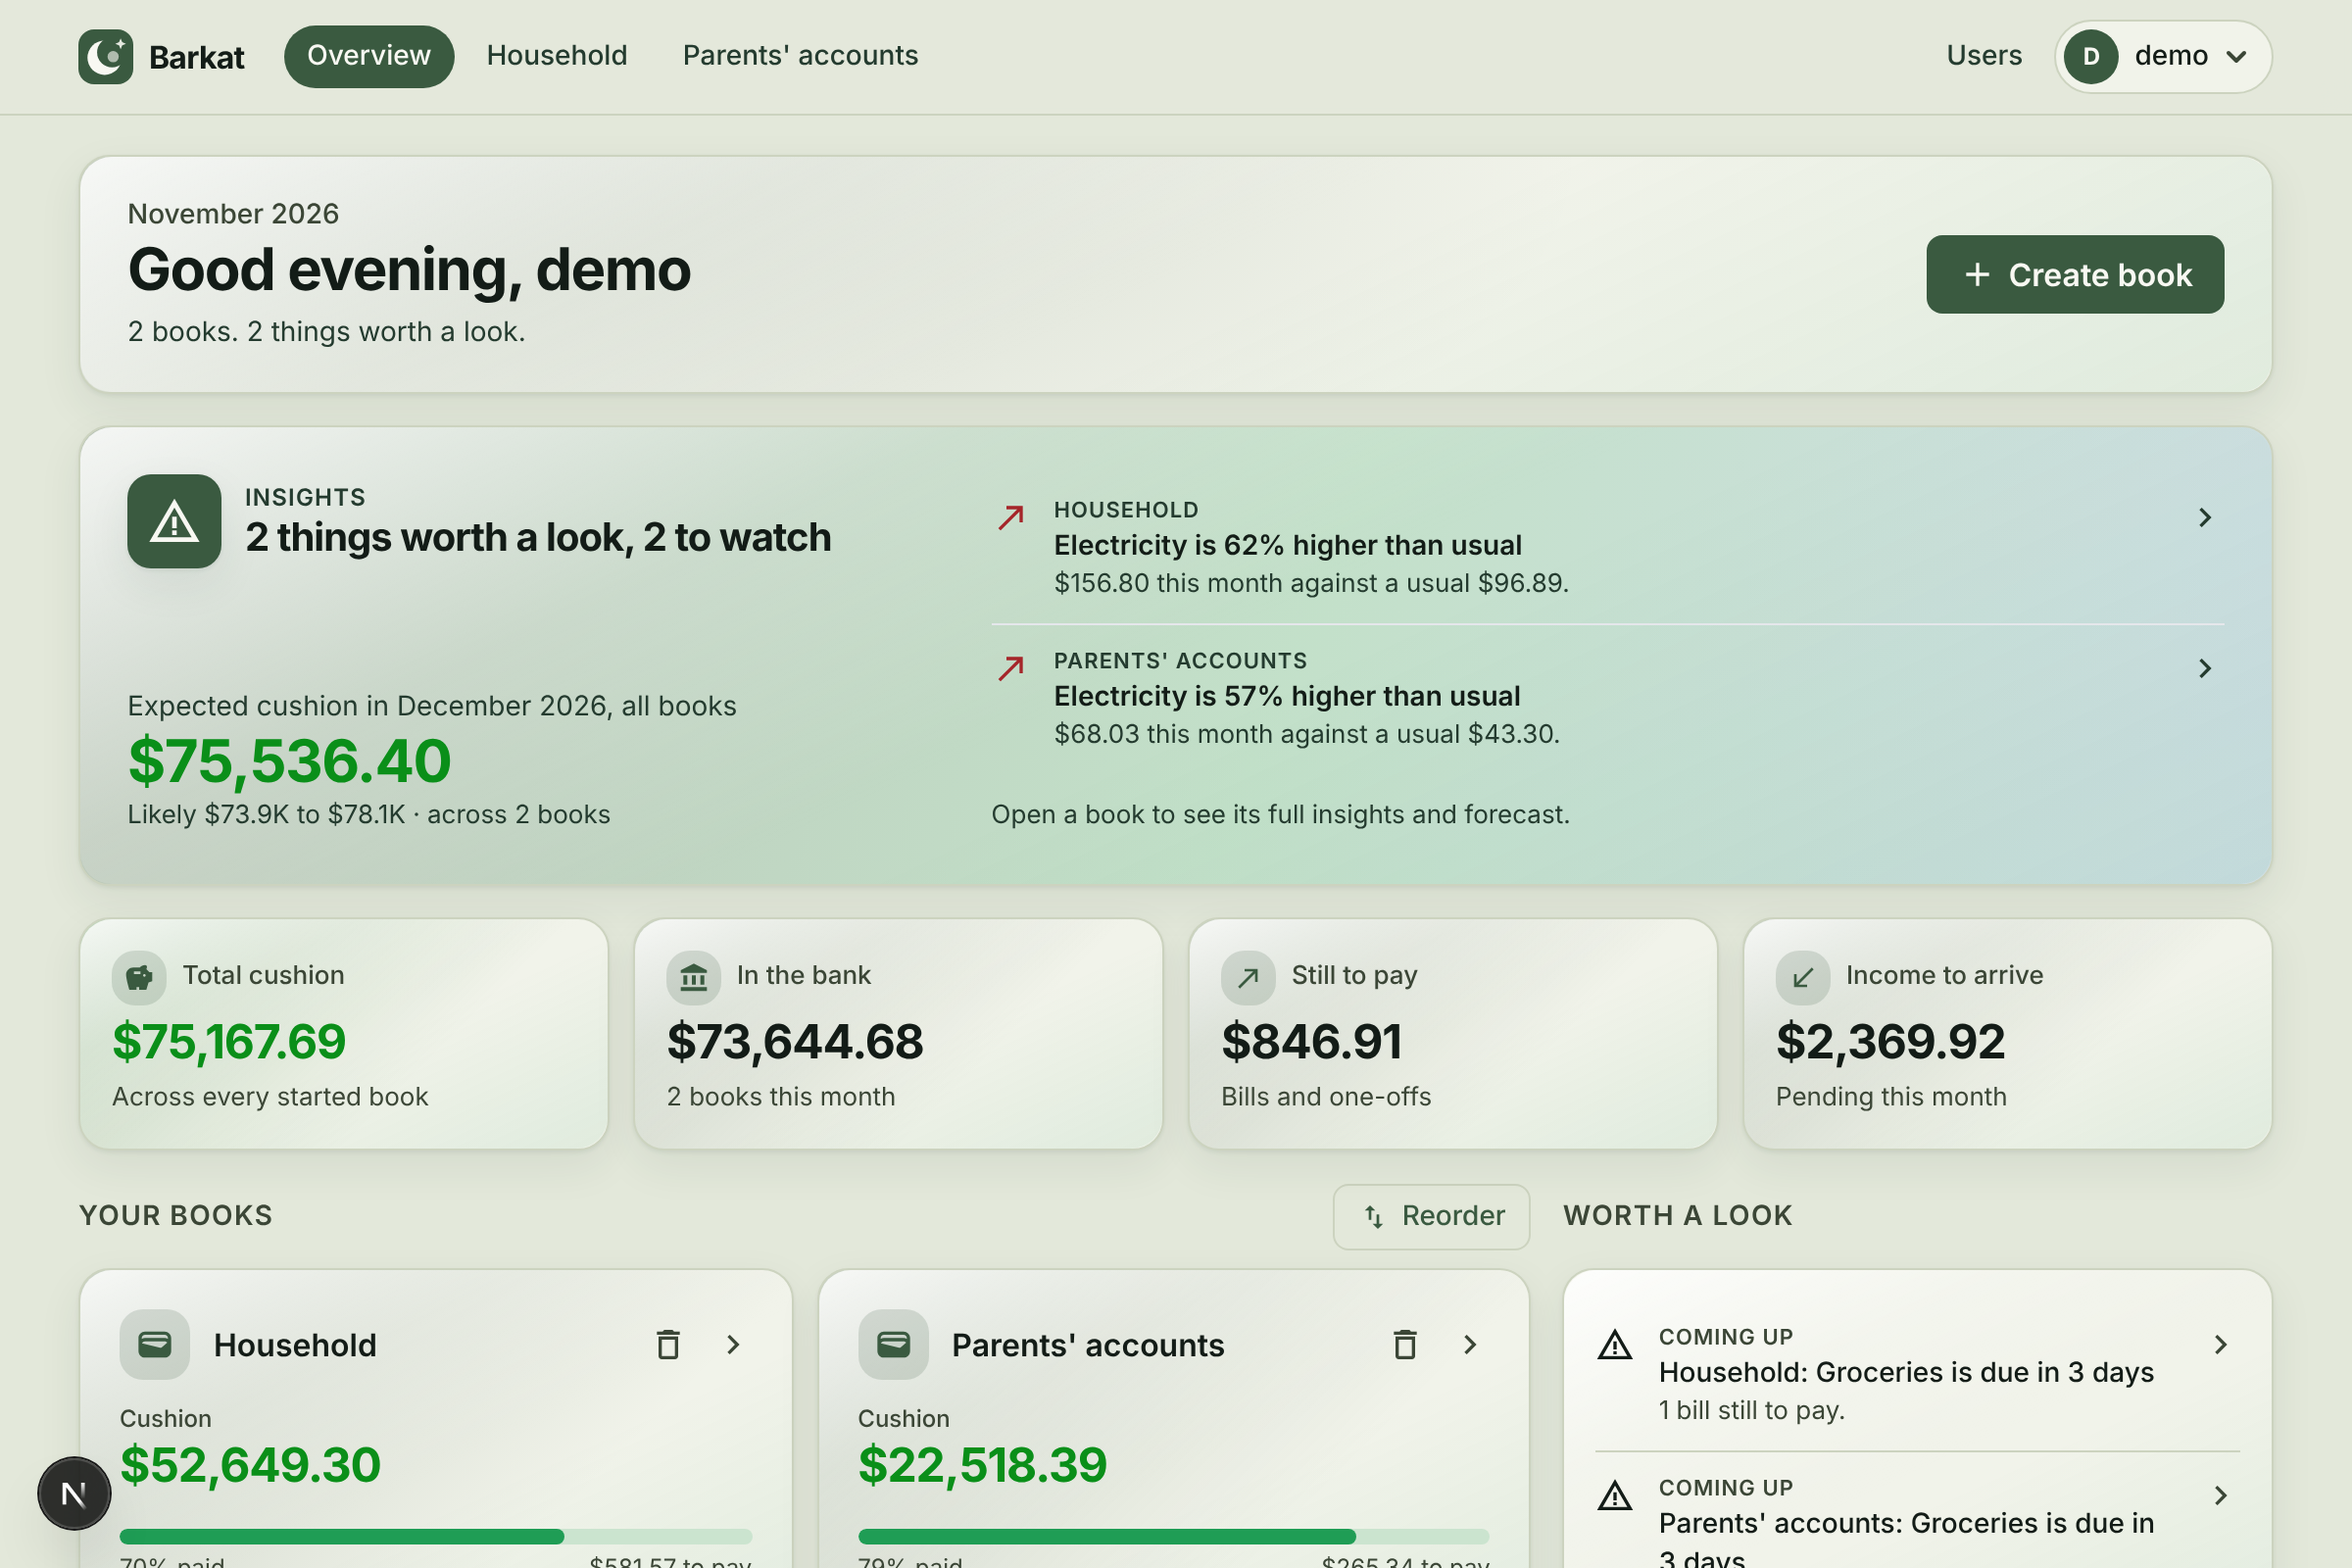
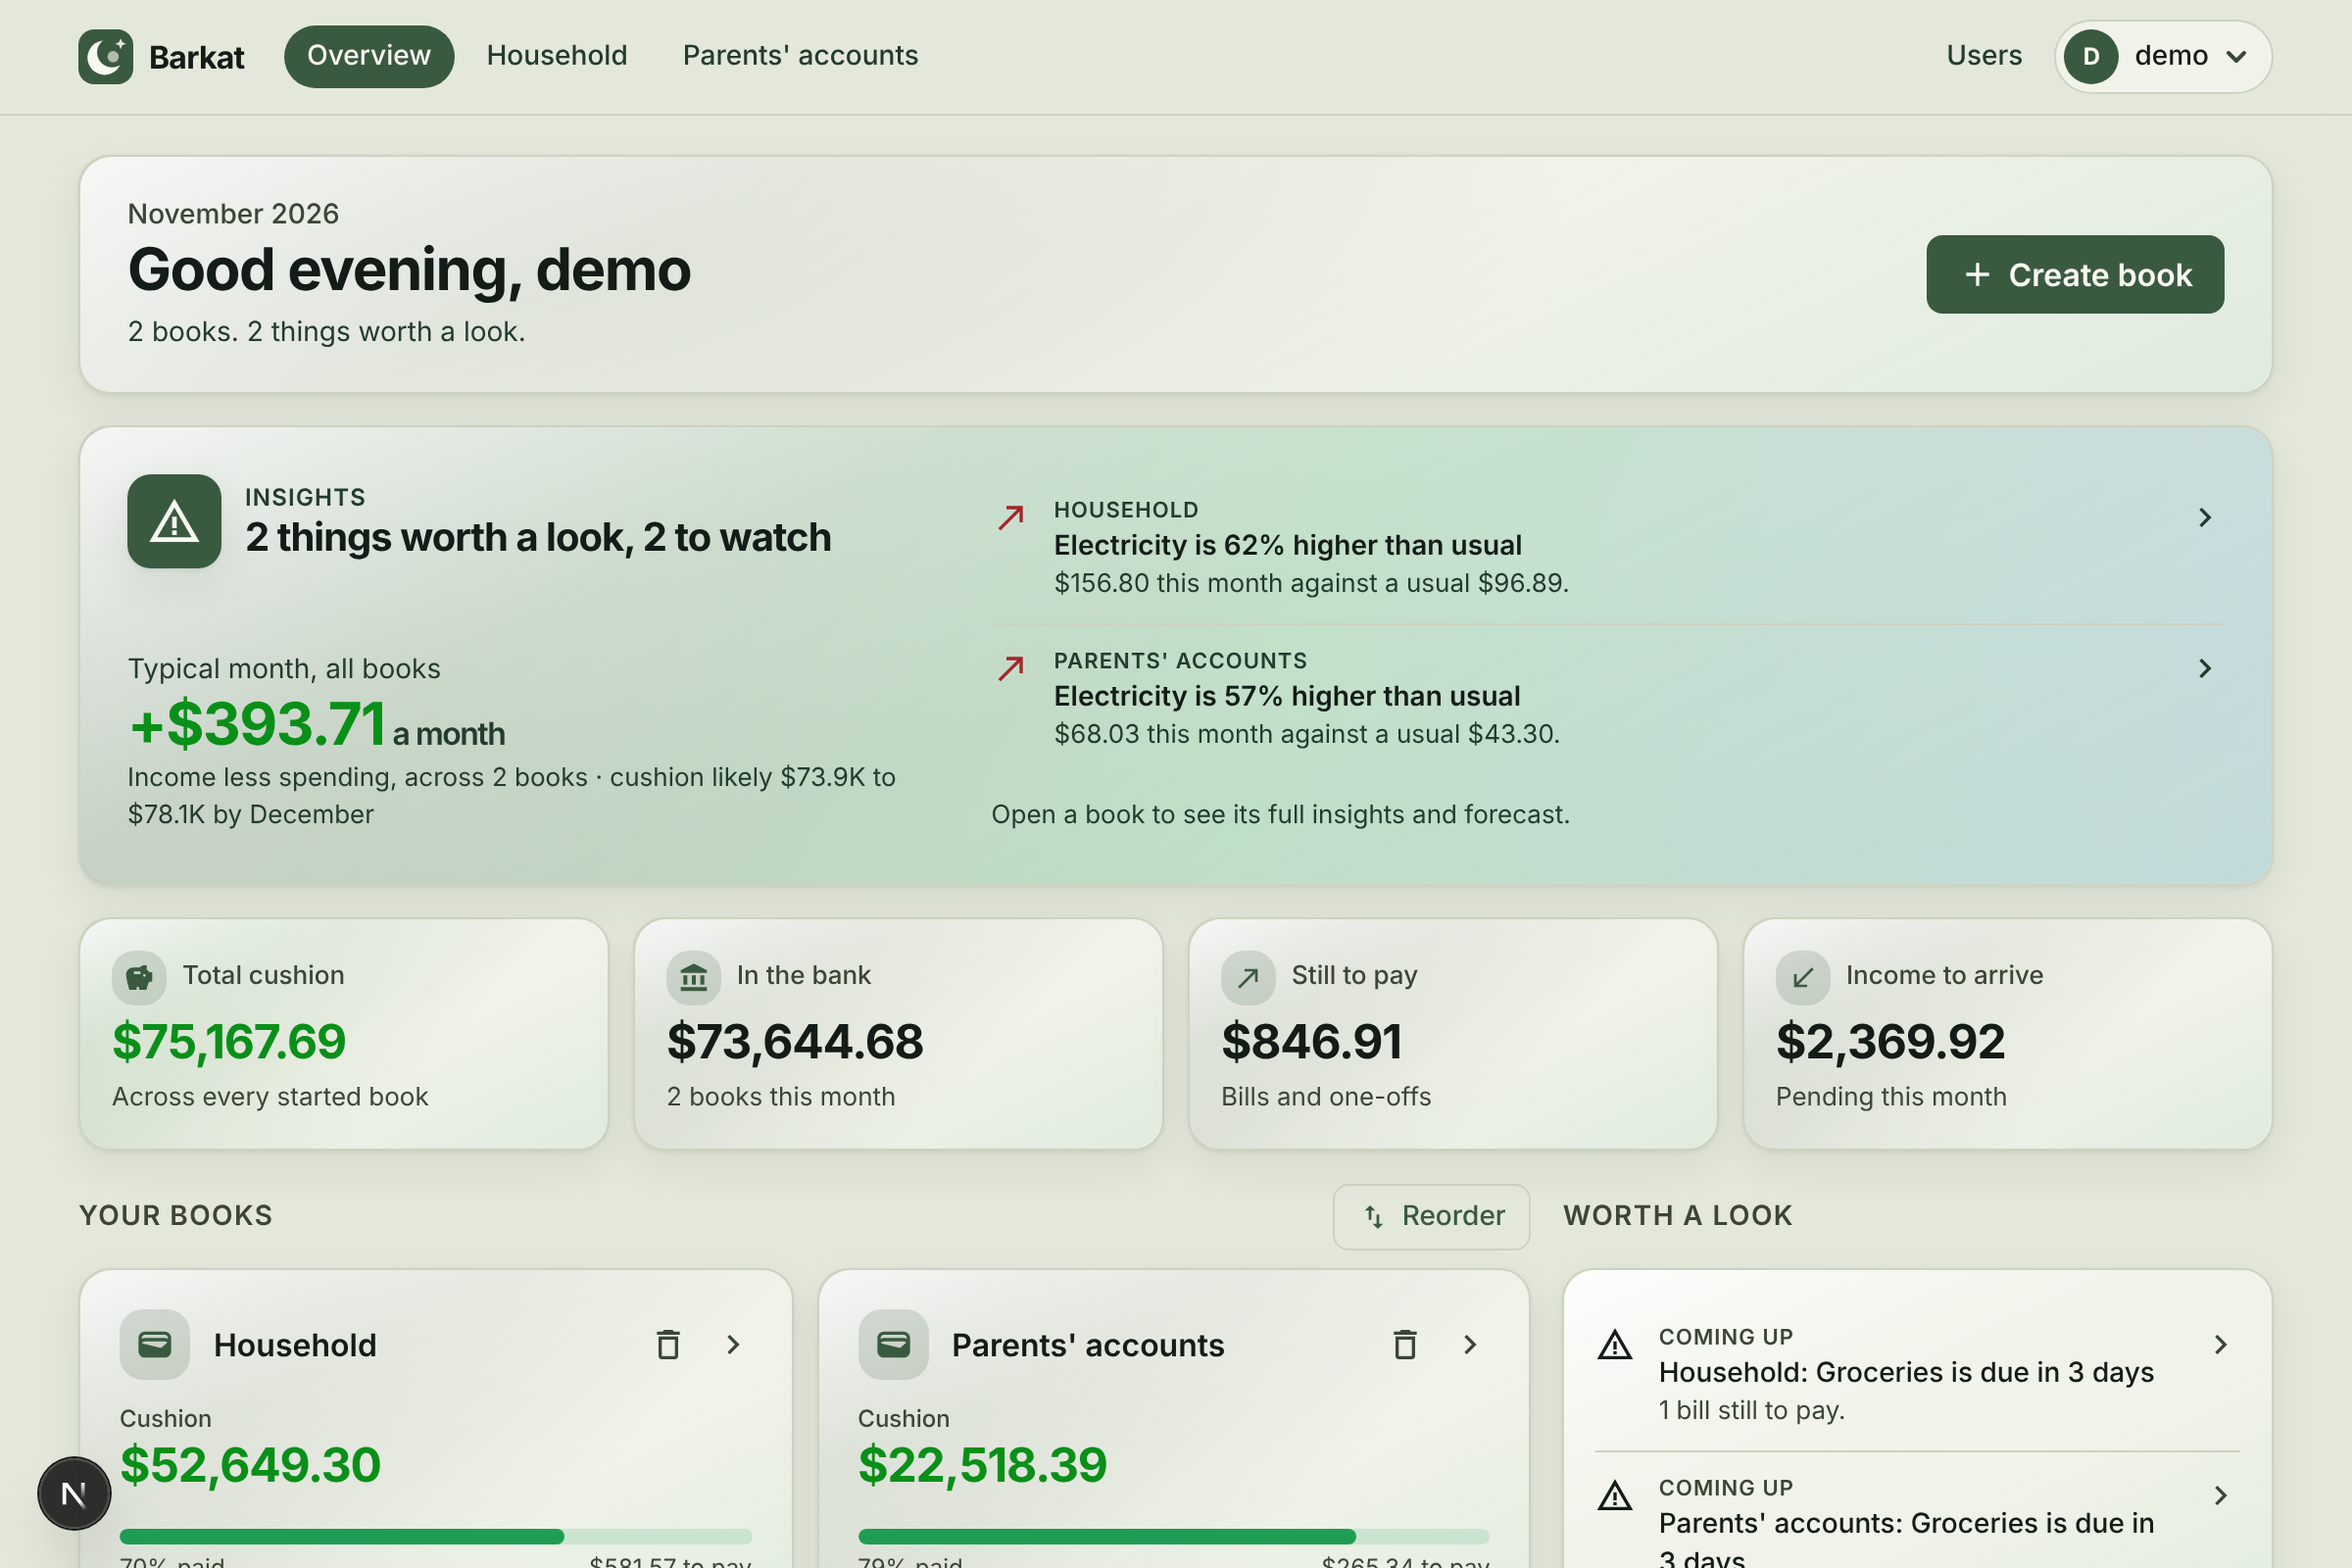
Overview insights: show the typical monthly change, not the cushion again
Claude-Session: https://claude.ai/code/session_01BwwsQpepoFFDE9bGD7rFmF

Changed region(s): [[0.0312, 0.4062, 0.375, 0.5312]]

diff --git a/web/src/app/(app)/page.tsx b/web/src/app/(app)/page.tsx
@@ -270,7 +270,7 @@ function DueChip({ s }: { s: SpaceSnapshot }) {
 }
 
 function InsightsBanner({ insights }: { insights: OverviewInsights }) {
-  const { total, warns, top, next, books } = insights;
+  const { total, warns, top, next, net, books } = insights;
   return (
     <section
       aria-label="Insights"
@@ -288,12 +288,17 @@ function InsightsBanner({ insights }: { insights: OverviewInsights }) {
             </h2>
           </div>
         </div>
-        {next && (
+        {net !== null && (
           <div>
-            <p className="text-sm text-ink2">Expected cushion in {monthLabel(next.ym)}, all books</p>
-            <p className={`text-3xl font-bold tracking-tight ${next.expected >= 0 ? "text-good-bright" : "text-bad-bright"}`}>{formatMoney(next.expected)}</p>
+            <p className="text-sm text-ink2">Typical month, all books</p>
+            <p className={`text-3xl font-bold tracking-tight ${net >= 0 ? "text-good-bright" : "text-bad-bright"}`}>
+              {net >= 0 ? "+" : "-"}
+              {formatMoney(Math.abs(net))}
+              <span className="ml-1 text-base font-semibold text-ink2">a month</span>
+            </p>
             <p className="text-[0.8125rem] text-ink2">
-              Likely {formatCompact(next.low)} to {formatCompact(next.high)} · across {books} book{books === 1 ? "" : "s"}
+              Income less spending, across {books} book{books === 1 ? "" : "s"}
+              {next ? ` · cushion likely ${formatCompact(next.low)} to ${formatCompact(next.high)} by ${monthLabel(next.ym).split(" ")[0]}` : ""}
             </p>
           </div>
         )}

diff --git a/web/src/lib/budget/insights.ts b/web/src/lib/budget/insights.ts
@@ -217,6 +217,8 @@ export interface OverviewInsights {
   warns: number;
   /** The most urgent findings, warnings first, each with its book. */
   top: { spaceId: number; book: string; insight: Insight }[];
+  /** Typical net of a month (income less spending) of all those books together. Null with none. */
+  net: Cents | null;
   /** Expected cushion of all those books together for the next month, when they have a forecast for it. */
   next: { ym: string; expected: Cents; low: Cents; high: Cents } | null;
 }
@@ -235,6 +237,7 @@ export function overviewInsights(books: BookInsights[], limit = 4): OverviewInsi
     total: all.length,
     warns: all.filter((x) => x.insight.severity === "warn").length,
     top: all.slice(0, limit),
+    net: live.length > 0 ? live.reduce((a, b) => a + (b.report.averageNet ?? 0), 0) : null,
     next: ym
       ? { ym, expected: same.reduce((a, f) => a + f.expected, 0), low: same.reduce((a, f) => a + f.low, 0), high: same.reduce((a, f) => a + f.high, 0) }
       : null,

diff --git a/web/__tests__/lib/budget/insights.test.ts b/web/__tests__/lib/budget/insights.test.ts
@@ -78,10 +78,11 @@ describe("overviewInsights", () => {
     expect(o.total).toBe(1);
     expect(o.warns).toBe(1);
     expect(o.top[0]).toMatchObject({ spaceId: 2, book: "Parents" });
+    expect(o.net).toBe(calm.report.averageNet! + spiky.report.averageNet!);
     expect(o.next?.ym).toBe("2026-07");
     expect(o.next?.expected).toBe(calm.report.forecast[0].expected + spiky.report.forecast[0].expected);
   });
   it("is empty with no usable books", () => {
-    expect(overviewInsights([])).toEqual({ books: 0, total: 0, warns: 0, top: [], next: null });
+    expect(overviewInsights([])).toEqual({ books: 0, total: 0, warns: 0, top: [], net: null, next: null });
   });
 });

diff --git a/CHANGELOG.md b/CHANGELOG.md
@@ -5,7 +5,7 @@ Follows [Semantic Versioning](https://semver.org/). Before 1.0.0 a minor bump ma
 ## [Unreleased]
 
 ### Added
-- Insights at `/s/<book>/insights`, with a gradient banner that rises in at the top of the month view (headline, count of things to watch, "See insights" button), a larger banner on the Overview page that rolls up every book (count of findings, the top ones each linking to their book's insights, and the combined expected cushion next month), and a link in the year header: found from the book's own history with plain statistics (no model, nothing leaves the server). It shows the typical month (income less spending over the last 6 months), a 3-month cushion forecast with a low-to-high range, and flags for the latest month: a bill far from its usual amount, a regular bill that is missing, a new bill, a spending spike, and a cushion forecast to go negative. Needs 3 months with data. Adjustment entries and items set to None are left out.
+- Insights at `/s/<book>/insights`, with a gradient banner that rises in at the top of the month view (headline, count of things to watch, "See insights" button), a larger banner on the Overview page that rolls up every book (count of findings, the top ones each linking to their book's insights, and the typical monthly change across books with the likely cushion range), and a link in the year header: found from the book's own history with plain statistics (no model, nothing leaves the server). It shows the typical month (income less spending over the last 6 months), a 3-month cushion forecast with a low-to-high range, and flags for the latest month: a bill far from its usual amount, a regular bill that is missing, a new bill, a spending spike, and a cushion forecast to go negative. Needs 3 months with data. Adjustment entries and items set to None are left out.
 - Clear future months: a month started ahead (by a schedule or copy-forward) offers "Clear <month>" in the month picker, so one can be deleted at a time. Only months after the current one can be cleared, since removing an earlier month would change the balances that carry forward. A dialog confirms first. To remove them all at once, the book's Import and export page has "Clear N future months", with a list of what goes. Admins only; the current and earlier months and the income schedules are untouched, and a cleared month can be started again.
 - Screenshots: nine screens in `docs/screenshots/` (overview, a month, accounts and bills, Manage accounts, the month picker, the year view, import and export, the light theme and a phone) shown in the README. All are taken from the made-up demo data.
 - Demo data: `npm run seed:demo` (in `web/`) writes made-up books to `web/data-demo/` with monthly history from January 2018 to the current month (about 170 months in two books: accounts, bills with yearly price rises, seasonal electricity, yearly zakat, trips, paychecks, a tax refund, one admin override and an income schedule). It never touches `web/data`, leaves an existing demo database alone unless `SEED_RESET=1`, and adds two fixed demo logins if missing (`demo`, admin, and `viewer`, read-only; password in the README), so the demo needs no setup screen.
